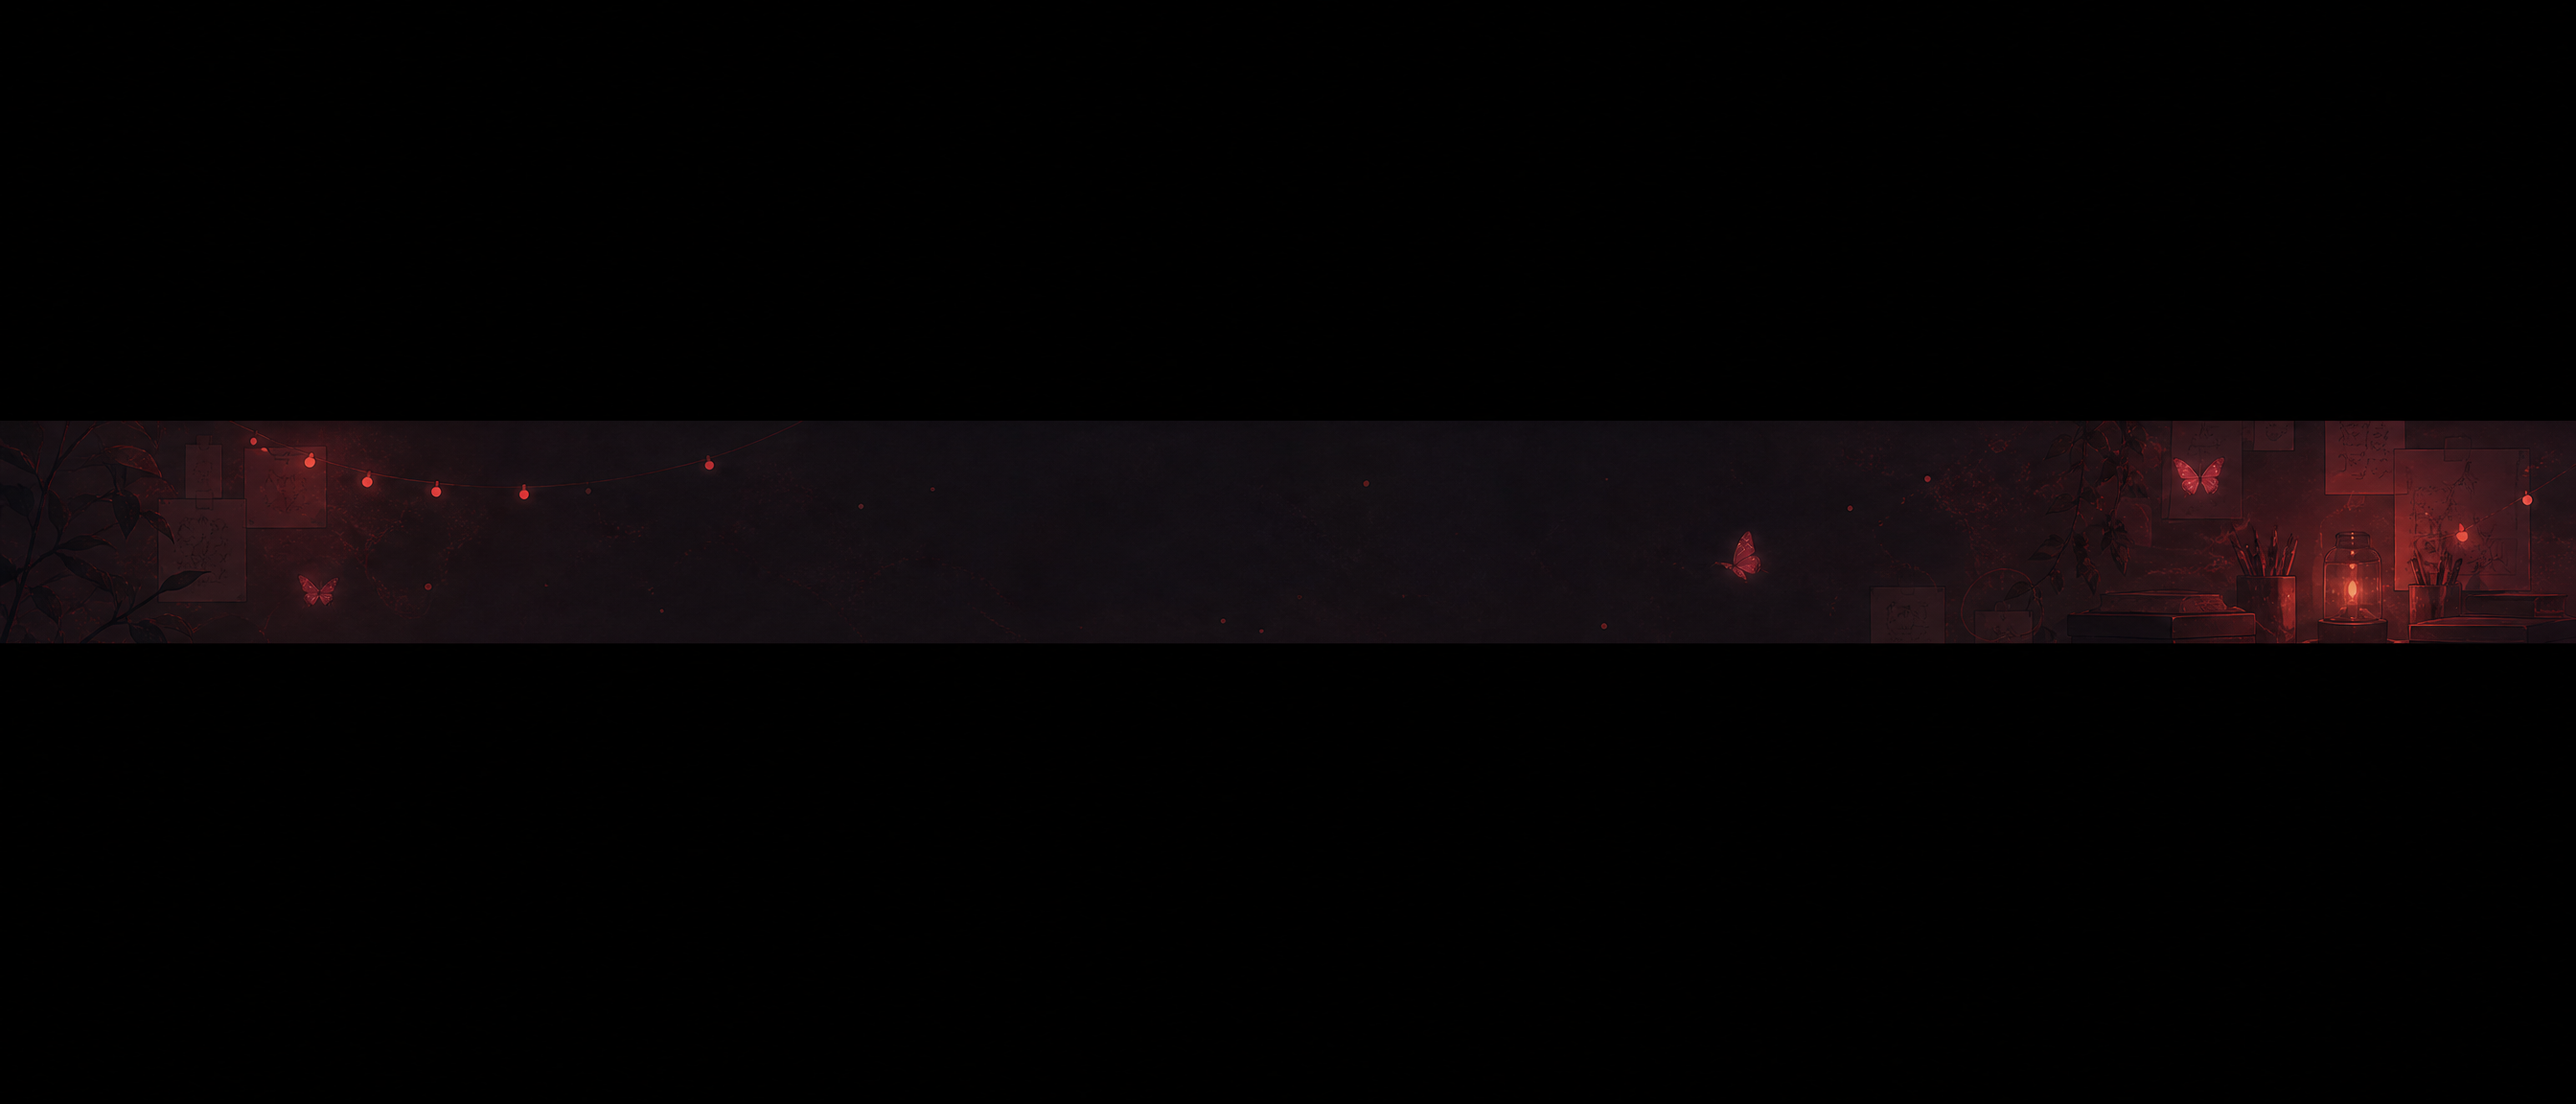
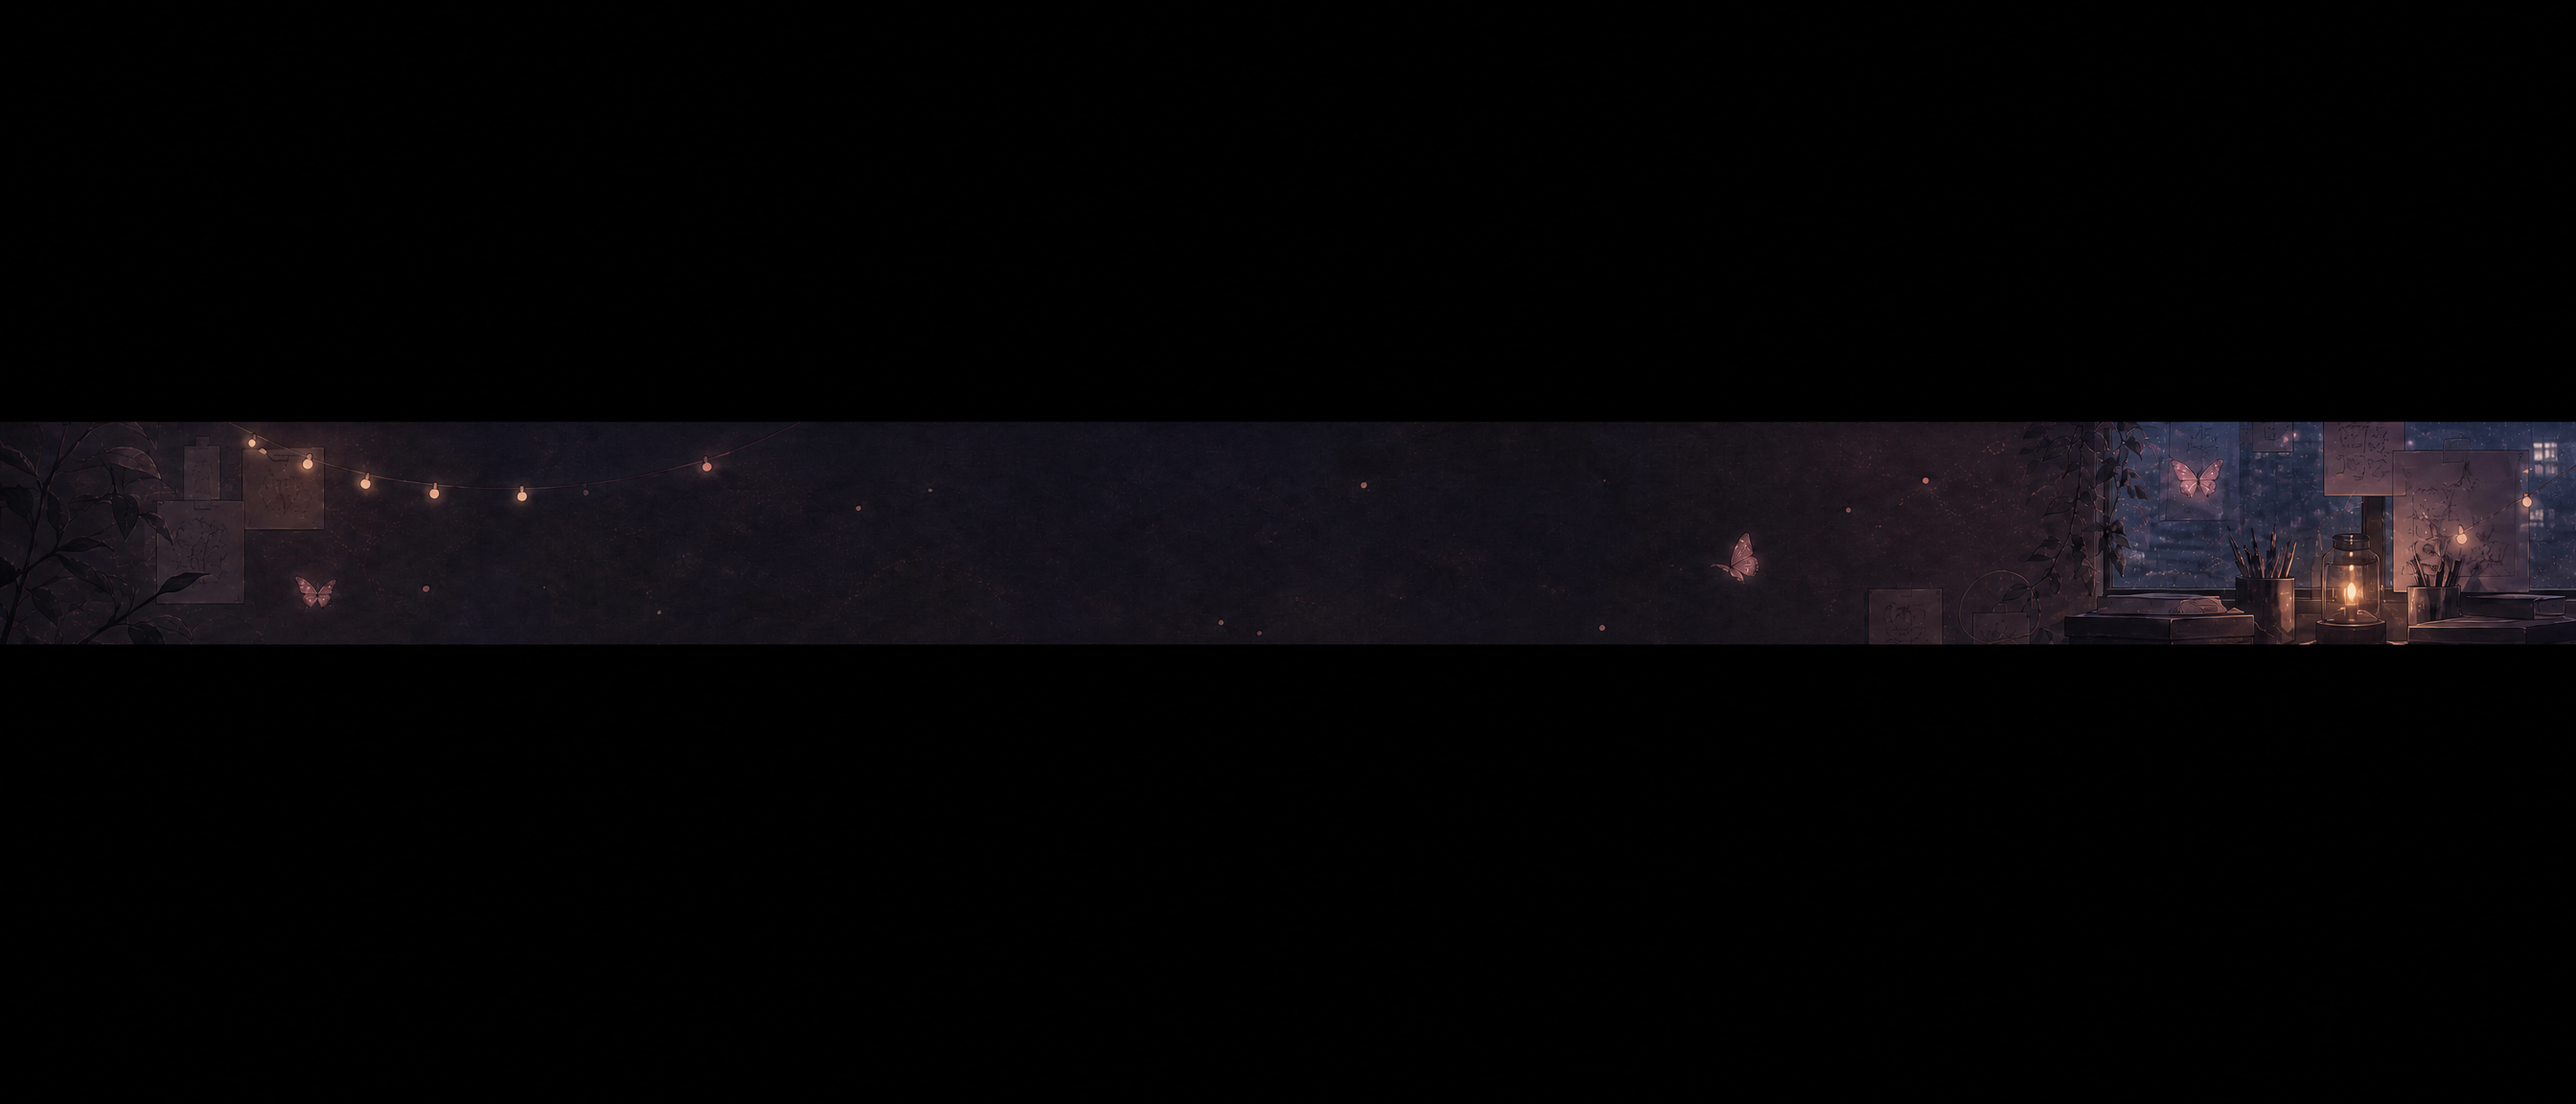
style: refine soft red palette and background atmosphere

diff --git a/README.md b/README.md
@@ -33,6 +33,18 @@ I am still learning, still experimenting, and still leaving half-finished sketch
 
 > no perfect plan — just a desk, a few ideas, and another small thing to build.
 
+## the palette in this room
+
+<p align="left">
+  <img src="https://img.shields.io/badge/charcoal%20plum-211b24?style=flat-square&labelColor=211b24" alt="charcoal plum" />
+  <img src="https://img.shields.io/badge/muted%20burgundy-8b3a46?style=flat-square&labelColor=8b3a46" alt="muted burgundy" />
+  <img src="https://img.shields.io/badge/dusty%20rose-b65c65?style=flat-square&labelColor=b65c65" alt="dusty rose" />
+  <img src="https://img.shields.io/badge/rainy%20blue--gray-65758b?style=flat-square&labelColor=65758b" alt="rainy blue gray" />
+  <img src="https://img.shields.io/badge/warm%20amber-cb9a6b?style=flat-square&labelColor=cb9a6b" alt="warm amber" />
+</p>
+
+A little dark, a little warm, and not too polished — like the room where these projects usually begin.
+
 ## things currently on my desk
 
 | Area | What I am exploring |
